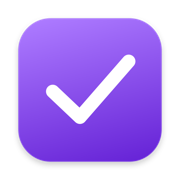
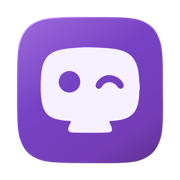
Prepare MacCare 0.2.32 with the Veille Améthyste identity

diff --git a/docs/release-notes/0.2.32.md b/docs/release-notes/0.2.32.md
@@ -1,0 +1,5 @@
+# MacCare 0.2.32
+
+- Le petit écran qui cligne de l’œil est la nouvelle icône de MacCare. Dans le Dock, son fond améthyste passe au prune en apparence sombre. Vous le retrouverez aussi au premier lancement et dans **À propos de MacCare**.
+- Dans la barre des menus, ce même écran remplace les étincelles. Cliquez dessus pour ouvrir le volet de suivi du Mac.
+- Le bouton **Analyser** de l’accueil et les accents du volet reprennent le violet de la nouvelle icône.
